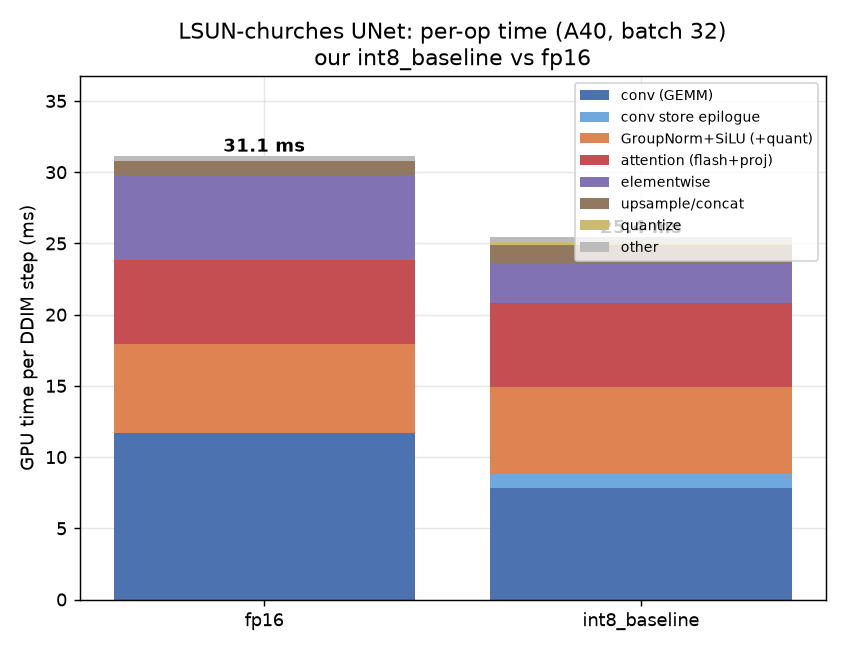
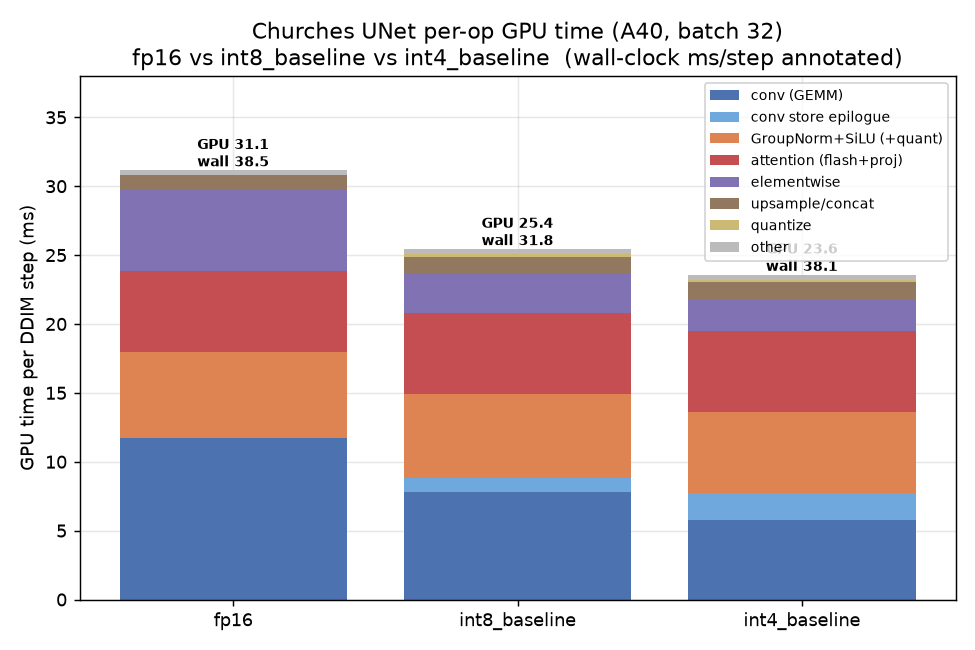
Add int4_baseline to UNet profile + detailed attention-block breakdown
int4_baseline: lowest GPU-sum (23.6ms) but wall-clock 38.1ms (~fp16, worse than int8
31.8) -- its conv-time win is erased by launch/scheduling overhead (GPU-sum only 62% of
wall) and the ~64% dtype-invariant tail. int8_baseline remains the practical winner.

Attention detail (21 TokenMajorAttentionBlocks, all fp16, per DDIM step): pre-attention
GroupNorm 3.50ms (40%), flash SDPA 2.74ms (31%), qkv Linear 1.31ms (15%), proj Linear
0.99ms (11%), reshape 0.26ms (3%). The 32x32/T=1024 block dominates SDPA (437us, O(T^2)).
Only the qkv/proj GEMMs (~26%) are cleanly int8-quantizable; GroupNorm is the biggest
single lever (fuse-passes, not dtype). Updates DIFFUSION_UNET_BOTTLENECK.md + 2 plots
(10 now 3-mode, 13 attention detail).

diff --git a/docs/profiling_report_2026-07-14/DIFFUSION_UNET_BOTTLENECK.md b/docs/profiling_report_2026-07-14/DIFFUSION_UNET_BOTTLENECK.md
@@ -9,16 +9,28 @@ GPU time (capture region = one `sample()` = 12 steps). Kernels bucketed by opera
 
 ## Per-operation GPU time (ms / DDIM step)
 
-| operation | fp16 | int8_baseline | what our method did |
-|---|--:|--:|---|
-| conv (GEMM) | 11.70 (38%) | **7.84 (31%)** | int8 tensor-core convs (fp16→int8) |
-| GroupNorm+SiLU (+quant) | 6.24 (20%) | 6.07 (24%) | quantize **fused into GN** (writes int8 directly) |
-| attention (flash + proj) | 5.92 (19%) | 5.89 (23%) | unchanged (fp16) |
-| elementwise | 5.92 (19%) | 2.81 (11%) | skip-add fused into conv store epilogue |
-| upsample / concat | 1.03 | 1.27 | unchanged |
-| conv store epilogue | 0 | 1.00 | fp16 residual store (int8 path) |
-| quantize (standalone) | 0 | 0.20 | ~eliminated (hidden in GN) |
-| **total** | **31.14** | **25.42** | **−18% GPU** |
+| operation | fp16 | int8_baseline | int4_baseline |
+|---|--:|--:|--:|
+| conv (GEMM) | 11.70 | **7.84** | **5.76** |
+| conv store epilogue | 0 | 1.00 | 1.94 |
+| GroupNorm+SiLU (+quant) | 6.24 | 6.07 | 5.91 |
+| attention (flash + proj) | 5.92 | 5.89 | 5.90 |
+| elementwise | 5.92 | 2.81 | 2.25 |
+| upsample / concat | 1.03 | 1.27 | 1.27 |
+| quantize (standalone) | 0 | 0.20 | 0.18 |
+| other | 0.34 | 0.33 | 0.34 |
+| **GPU-sum total** | **31.14** | **25.42** | **23.56** |
+| **wall-clock / step** | **38.5** | **31.8** | **38.1** |
+
+int8_baseline is what our fusions target: int8 convs (11.7→7.8), quantize folded into GroupNorm
+(standalone ~0.2 ms), skip-add folded into the conv store epilogue (elementwise 5.9→2.8).
+
+**Watch the wall-clock row.** int4_baseline has the *lowest GPU-sum* (its int8/int4 convs are fast and it
+skips the 1×1s), yet its *wall-clock is 38.1 ms — no better than fp16 and worse than int8's 31.8*. The
+gap is **launch/scheduling overhead + gaps**: int4_baseline's GPU-sum (23.6) is only 62% of its wall
+(38.1), a 14.5 ms overhead tail, vs int8's 6.4 ms. So on this UNet **int8_baseline is the practical
+winner; int4 doesn't pay off** — its conv-time win is eaten by dispatch overhead and by the ~64%
+dtype-invariant tail (GroupNorm + attention + elementwise), which is identical across all three modes.
 
 ## What each bucket contains (actual kernels measured)
 
@@ -62,12 +74,50 @@ of the work quantizable and even that only ~1.5–2× faster, the end-to-end cei
 measure. Our fusions already claimed the cheap wins on the quantizable side (quantize folded into
 GroupNorm → ~0.2 ms standalone; skip-add folded into the conv epilogue → elementwise 5.9→2.8 ms).
 
+## Inside the attention blocks (detailed)
+
+The UNet has **21 `TokenMajorAttentionBlock`s** (self-attention: `GroupNorm → qkv Linear(C,3C) →
+scaled_dot_product_attention (flash) → proj Linear(C,C)`; no cross-attention or FF — churches is
+unconditional). Micro-benchmarking each block's components (all fp16, usage-weighted per step):
+
+![attention detail](13_attention_detail.png)
+
+| component | ms/step | share | note |
+|---|--:|--:|---|
+| pre-attention **GroupNorm** | 3.50 | **40%** | the norm before each block — the biggest attention cost |
+| **flash SDPA** (QKᵀ·softmax·V) | 2.74 | 31% | dominated by the high-res blocks (quadratic in tokens) |
+| **qkv** Linear (C→3C) | 1.31 | 15% | fp16 GEMM |
+| **proj** Linear (C→C) | 0.99 | 11% | fp16 GEMM |
+| reshape/permute (token-major views) | 0.26 | 3% | mostly free views (token-major opt already removed the copies) |
+| **total** | **8.81** | | (the norm 3.5 ms is counted in the GN bucket above; the rest ≈ the attention bucket) |
+
+Per resolution (each config runs 5× per step except the last):
+
+| C | H×W | tokens T | norm µs | qkv µs | SDPA µs | proj µs |
+|--:|--|--:|--:|--:|--:|--:|
+| 192 | 32² | **1024** | 340 | 107 | **437** | 77 |
+| 384 | 16² | 256 | 185 | 87 | 61 | 60 |
+| 384 | 8² | 64 | 79 | 33 | 23 | 27 |
+| 768 | 4² | 16 | 80 | 29 | 23 | 28 |
+| 768 | 2² | 4 | 84 | 28 | 24 | 33 |
+
+**Findings:**
+- **The highest-resolution block (C192, 32², T=1024) dominates SDPA** — 437 µs vs 23–61 µs elsewhere,
+  because attention is O(T²) and T=1024 there. Its GroupNorm (340 µs) is also the largest.
+- **The pre-attention GroupNorm is the single biggest attention cost (40%)** — a memory-bound reduction,
+  not the matmuls.
+- **The qkv+proj GEMMs are 26% of attention (~2.3 ms/step) and are fp16** — this is the one clearly
+  int8-quantizable slice of attention. SDPA and GroupNorm are much harder to quantize.
+
 ## Where further speedup would have to come from
-- **Attention (23%)** — quantize the attention QKV/proj GEMMs to int8 (currently fp16), or a faster flash
-  variant. Biggest single untapped block.
-- **GroupNorm (24%)** — already fused with quant/SiLU; it's memory-bound, so gains need fewer passes
-  (e.g. fusing GN into the preceding conv store) rather than dtype.
-- Convs are near their int8 ceiling (see `KERNEL_BENCHMARK.md`); little left there.
+- **GroupNorm — the largest lever, ~24% of the step and ~40% of attention.** It's memory-bound, so gains
+  come from *fewer passes* (fuse GN into the preceding conv store / into the attention qkv), not dtype.
+  Every attention block and ResBlock pays a GN.
+- **Attention qkv/proj GEMMs (~26% of attention, ~2.3 ms/step) are the one int8-quantizable slice** —
+  currently fp16. SDPA (flash) and GroupNorm are much harder to quantize; the O(T²) SDPA is concentrated in
+  the single 32²/T=1024 block (a faster flash variant or lower-res attention would help there).
+- **Convs are near their int8 ceiling** (see `KERNEL_BENCHMARK.md`); **int4 is not worth it on this UNet**
+  (1×1 convs lose, and dispatch overhead erases the GPU-time win — wall-clock ≈ fp16).
 
 *(MoDiff modes on this UNet trade the above speed for temporal-accuracy quality; see the diffusion results
 in the prior handoff. This profile is the baseline int8 path.)*
